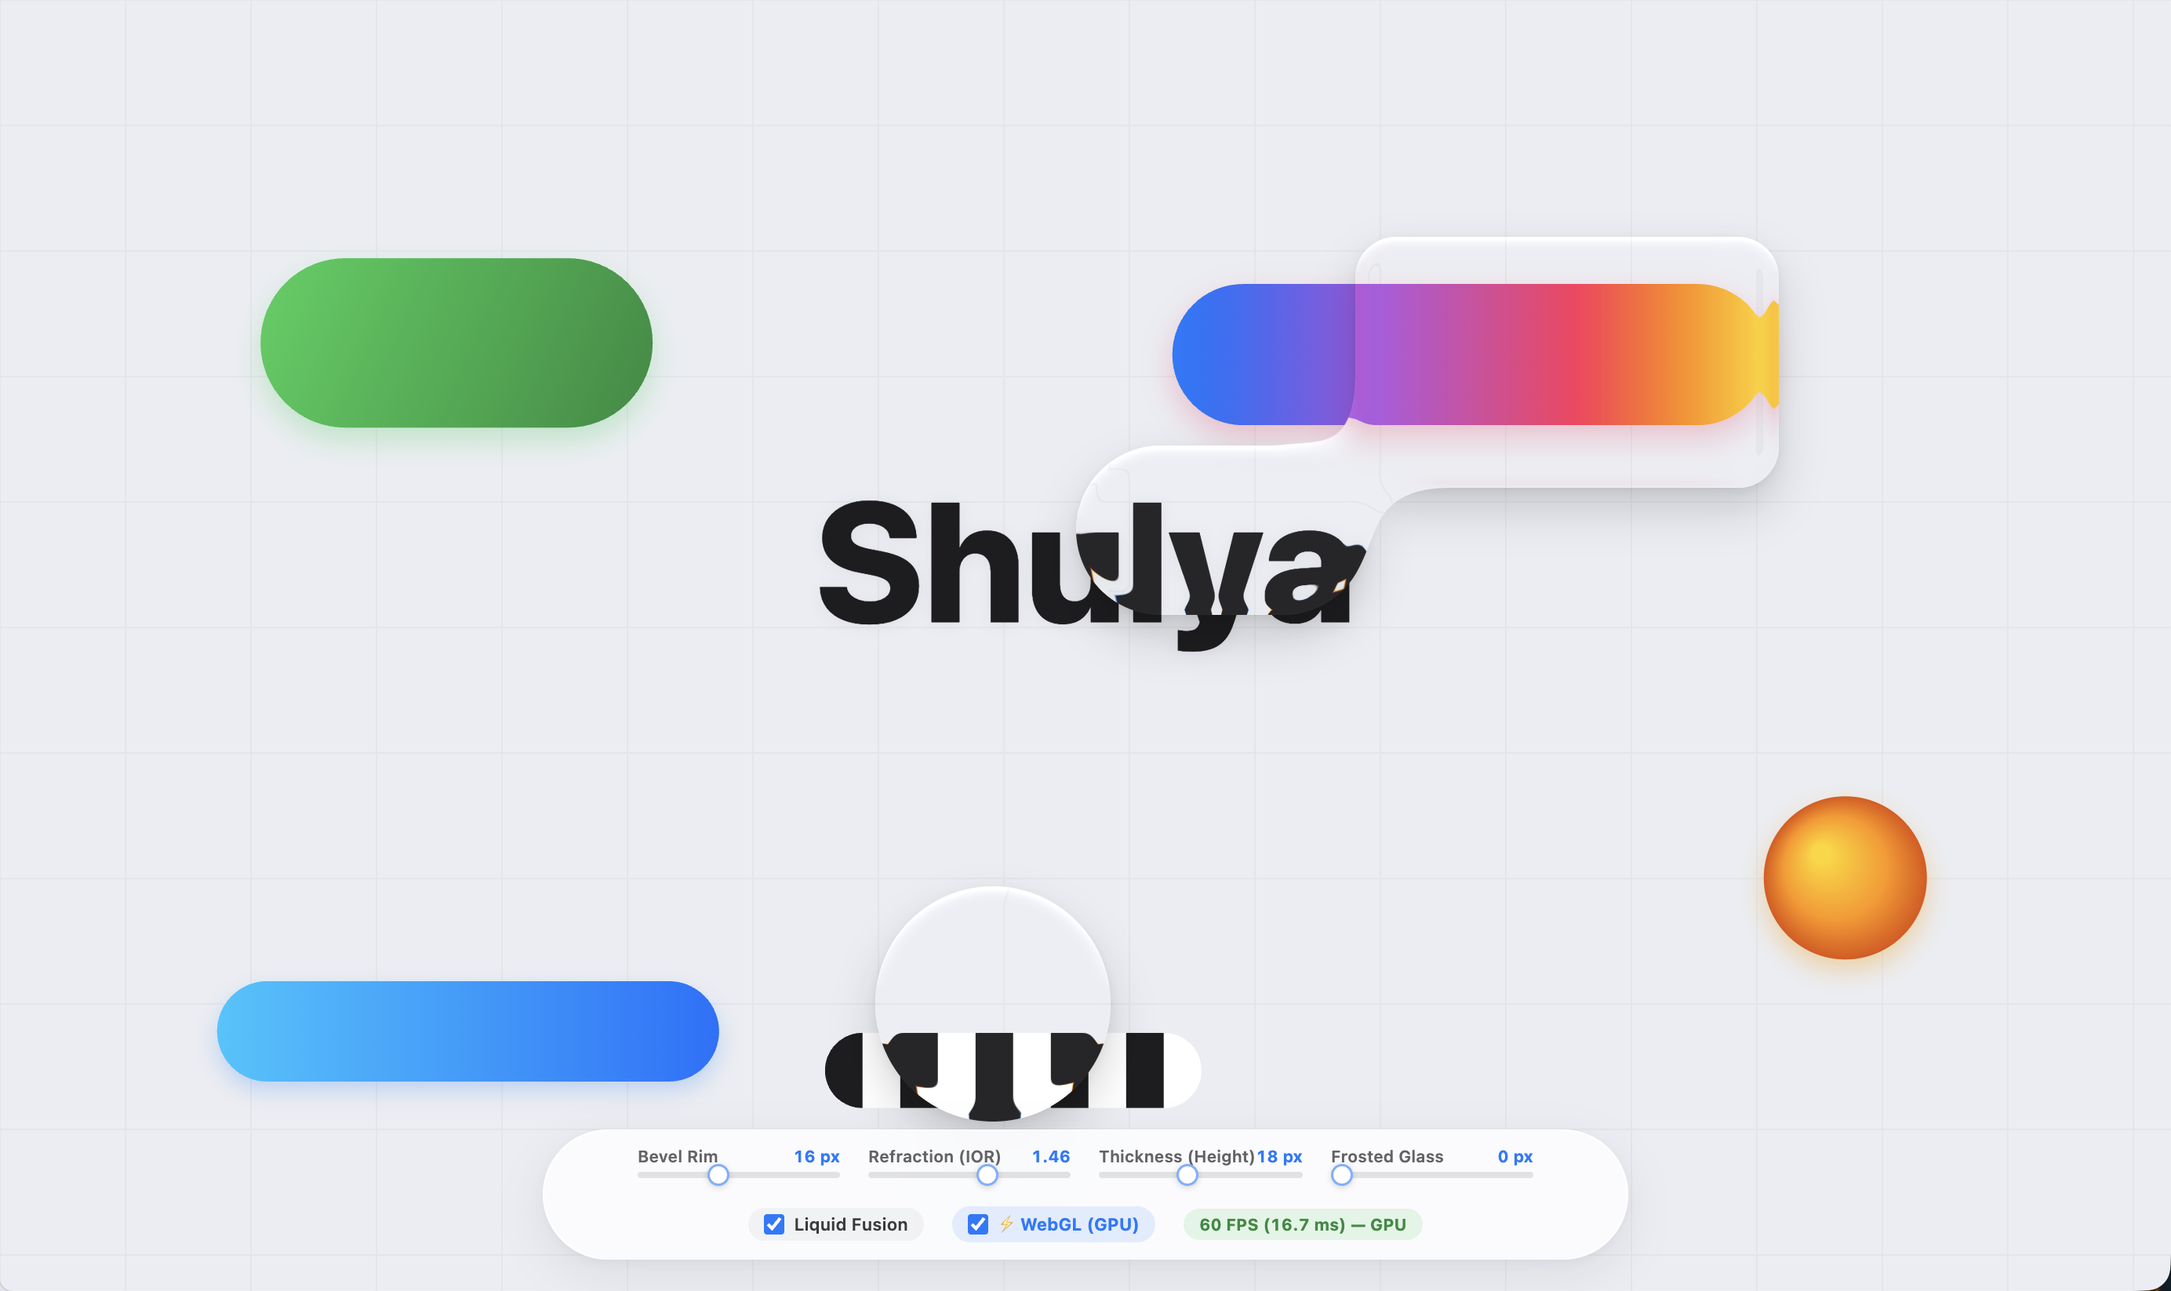
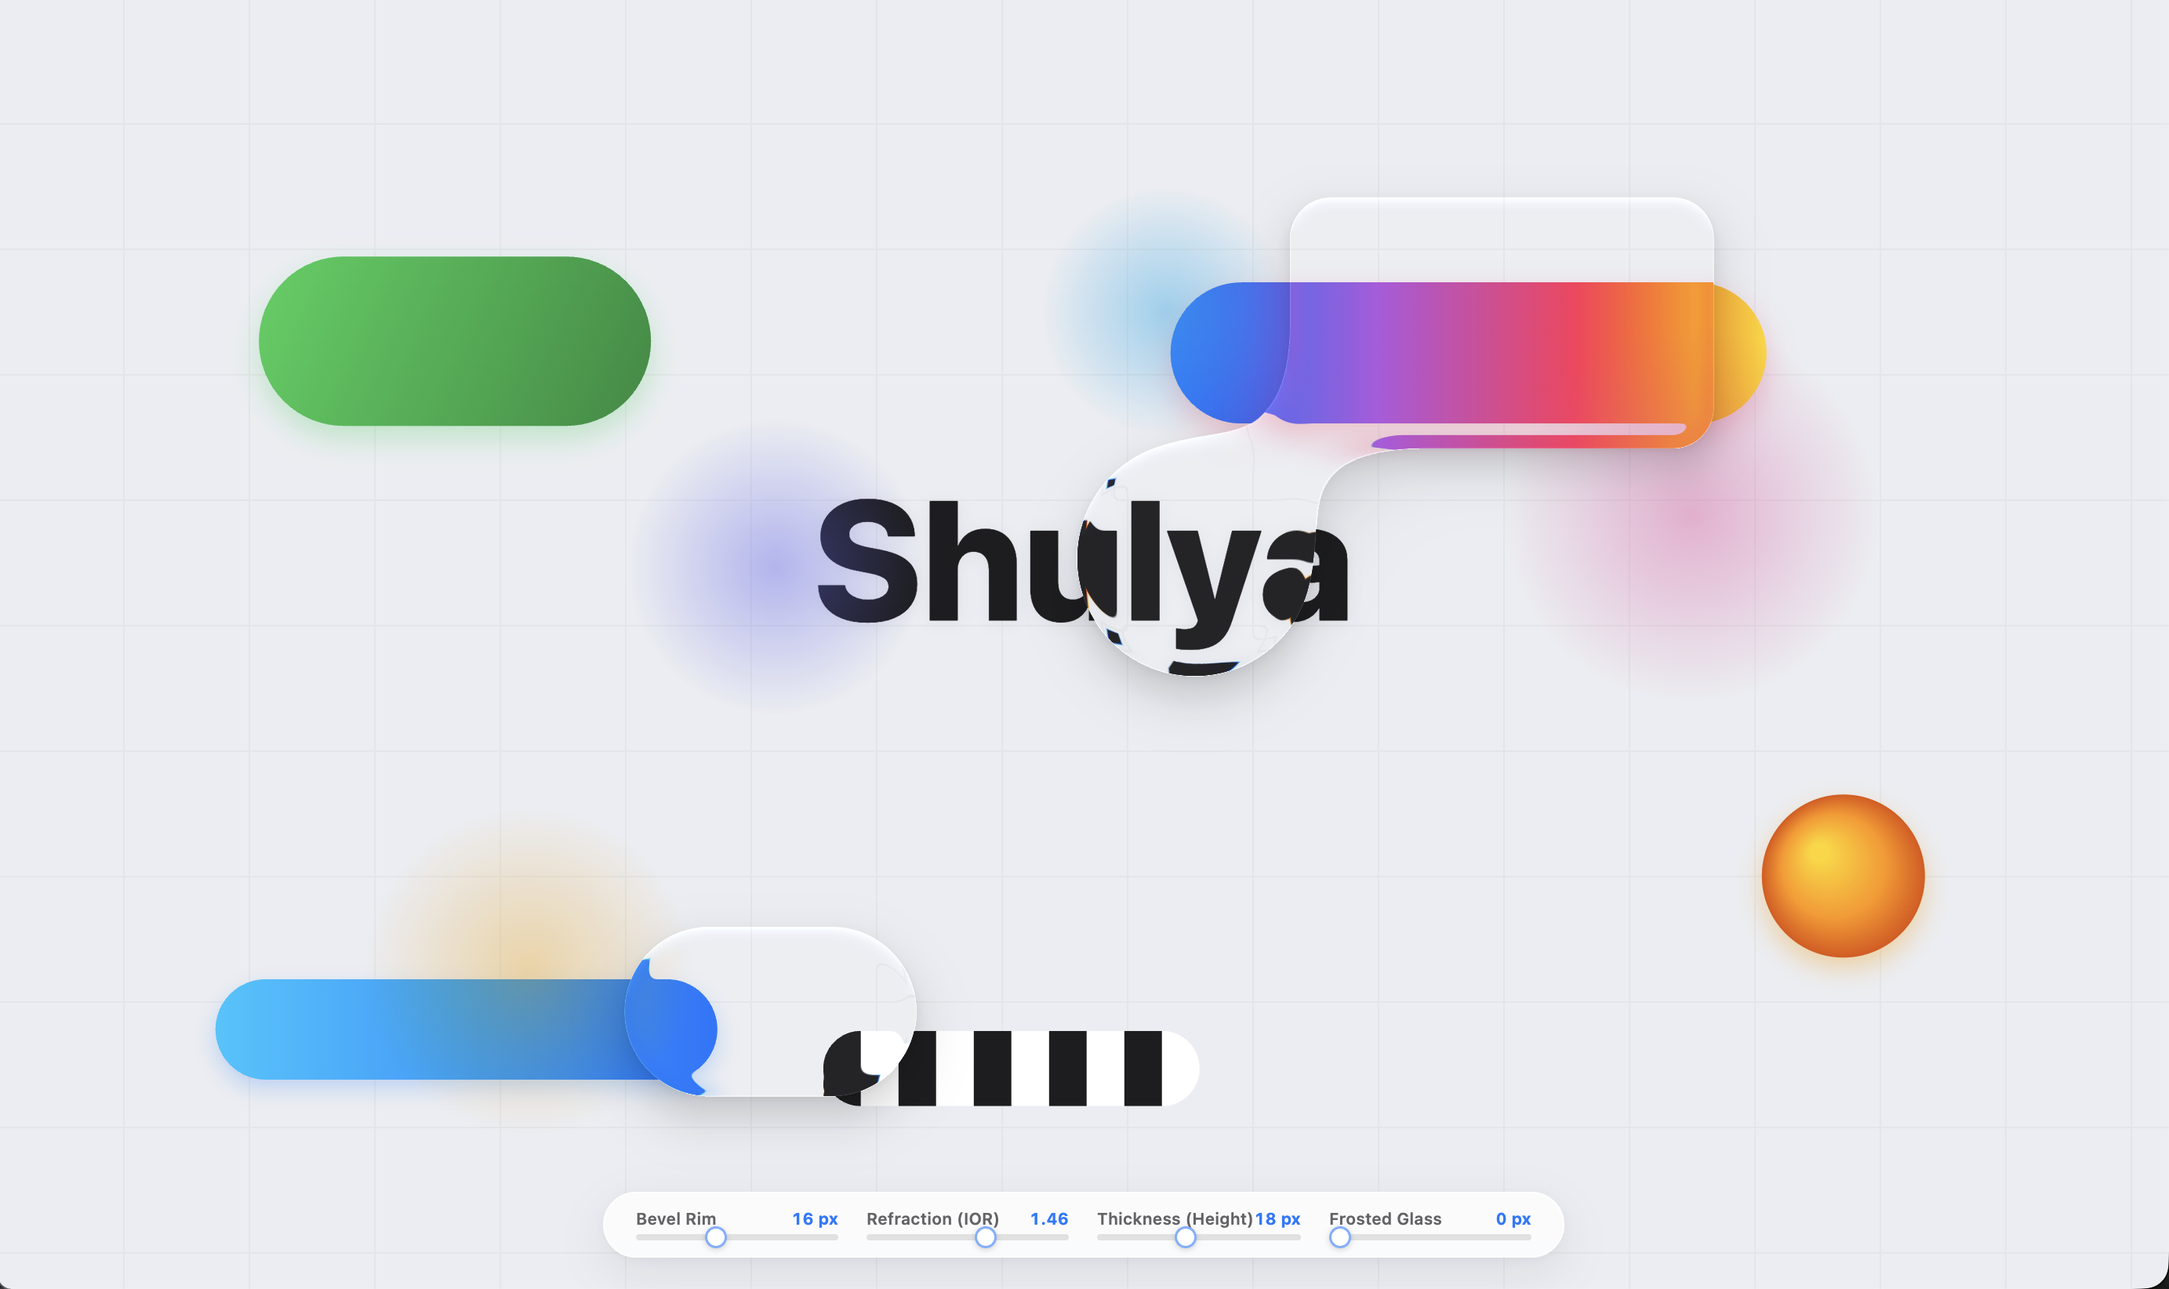
refactor: replace boolean fusion toggle with automatic z-index based merging

diff --git a/src/core/stage.js b/src/core/stage.js
@@ -54,10 +54,10 @@ function ensureStageBuffers(customDpr = 0) {
   if (typeof document === 'undefined') return false;
   const dpr = getDevicePixelRatio(customDpr);
   const docEl = document.documentElement;
-  const vw = Math.max(1, window.innerWidth, docEl ? docEl.clientWidth : 0);
-  const vh = Math.max(1, window.innerHeight, docEl ? docEl.clientHeight : 0);
-  const bufW = Math.round(vw * dpr);
-  const bufH = Math.round(vh * dpr);
+  const vw = window.innerWidth || (docEl ? docEl.clientWidth : 1024);
+  const vh = window.innerHeight || (docEl ? docEl.clientHeight : 768);
+  const bufW = Math.max(1, Math.round(vw * dpr));
+  const bufH = Math.max(1, Math.round(vh * dpr));
 
   if (!stageCanvas) {
     stageCanvas = document.createElement('canvas');
@@ -131,8 +131,12 @@ function getTierSizeWithHysteresis(currentTier, maxDim) {
 function ensureWebGLRenderer(bufW = 1024, bufH = 1024) {
   if (typeof document === 'undefined') return false;
 
-  const w = bufW || Math.max(1, Math.round((window.innerWidth || 1024) * (window.devicePixelRatio || 1)));
-  const h = bufH || Math.max(1, Math.round((window.innerHeight || 1024) * (window.devicePixelRatio || 1)));
+  const docEl = document.documentElement;
+  const vw = window.innerWidth || (docEl ? docEl.clientWidth : 1024);
+  const vh = window.innerHeight || (docEl ? docEl.clientHeight : 768);
+  const sysDpr = window.devicePixelRatio || 1;
+  const w = bufW || Math.max(1, Math.round(vw * sysDpr));
+  const h = bufH || Math.max(1, Math.round(vh * sysDpr));
 
   if (!webglCanvas) {
     const canvas = document.createElement('canvas');
@@ -142,8 +146,8 @@ function ensureWebGLRenderer(bufW = 1024, bufH = 1024) {
       position: fixed;
       left: 0;
       top: 0;
-      width: 100vw;
-      height: 100vh;
+      width: ${vw}px;
+      height: ${vh}px;
       pointer-events: none;
       display: block;
       visibility: hidden;
@@ -158,6 +162,14 @@ function ensureWebGLRenderer(bufW = 1024, bufH = 1024) {
   if (webglCanvas.width !== w || webglCanvas.height !== h) {
     webglCanvas.width = w;
     webglCanvas.height = h;
+  }
+  const cssW = `${vw}px`;
+  const cssH = `${vh}px`;
+  if (webglCanvas.style.width !== cssW) {
+    webglCanvas.style.width = cssW;
+  }
+  if (webglCanvas.style.height !== cssH) {
+    webglCanvas.style.height = cssH;
   }
 
   if (!webglRenderer) {
@@ -258,8 +270,8 @@ function renderAllActiveLenses() {
     }
     const r = ctrl.getRect ? ctrl.getRect() : ctrl.element.getBoundingClientRect();
     if (!r || r.width <= 4 || r.height <= 4) continue;
-    // Keep off-screen fusion anchors in active list when fusion is enabled
-    const margin = ctrl.options.fusion ? DEFAULT_FUSION_DISTANCE : 0;
+    // Keep off-screen fusion anchors in active list when fusion distance is configured
+    const margin = (ctrl.options.fusionDistance ?? DEFAULT_FUSION_DISTANCE) > 0 ? DEFAULT_FUSION_DISTANCE : 0;
     if (
       r.bottom < -margin ||
       r.top > vh + margin ||
@@ -306,16 +318,17 @@ function renderAllActiveLenses() {
   }
 
   for (let i = 0; i < n; i++) {
-    if (!visible[i].ctrl.options.fusion) continue;
     const zI = visible[i].ctrl._cachedZIndex || 20;
-    const threshI = visible[i].ctrl.options.fusionDistance || DEFAULT_FUSION_DISTANCE;
+    const threshI = visible[i].ctrl.options.fusionDistance ?? DEFAULT_FUSION_DISTANCE;
+    if (threshI <= 0) continue;
     for (let j = i + 1; j < n; j++) {
-      if (!visible[j].ctrl.options.fusion) continue;
       const zJ = visible[j].ctrl._cachedZIndex || 20;
       // STRICT: only elements with the exact same z-index can coalesce/fuse!
       if (zI !== zJ) continue;
 
-      const baseThresh = Math.max(threshI, visible[j].ctrl.options.fusionDistance || DEFAULT_FUSION_DISTANCE);
+      const threshJ = visible[j].ctrl.options.fusionDistance ?? DEFAULT_FUSION_DISTANCE;
+      if (threshJ <= 0) continue;
+      const baseThresh = Math.max(threshI, threshJ);
       const idA = visible[i].ctrl._id || (i + 1);
       const idB = visible[j].ctrl._id || (j + 1);
       const pairKey = idA < idB ? `${idA}:${idB}` : `${idB}:${idA}`;
@@ -471,7 +484,6 @@ function renderAllActiveLenses() {
       borderRadius: ctrl._getRadius(),
       shape: ctrl._getShape(),
       tint: ctrl._tint,
-      fusion: ctrl.options.fusion,
       fused: group.length > 1
     }));
 

diff --git a/example/src/App.jsx b/example/src/App.jsx
@@ -256,6 +256,11 @@ function drawStageBackground(canvas, dpr = computeOptimalDpr(), time = 0) {
     canvas.height = bufH;
   }
 
+  const cssW = `${w}px`;
+  const cssH = `${h}px`;
+  if (canvas.style.width !== cssW) canvas.style.width = cssW;
+  if (canvas.style.height !== cssH) canvas.style.height = cssH;
+
   const ctx = canvas.getContext('2d');
   if (!ctx) return;
 
@@ -380,7 +385,6 @@ export default function App() {
   const [ior, setIor] = useState(OPTICAL_DEFAULTS.ior);
   const [height, setHeight] = useState(OPTICAL_DEFAULTS.height);
   const [frosted, setFrosted] = useState(0);
-  const [fusion, setFusion] = useState(OPTICAL_DEFAULTS.fusion);
 
   // 1. «Золотое сечение» на старте (computeOptimalDpr)
   const initialDpr = computeOptimalDpr();
@@ -447,18 +451,26 @@ export default function App() {
     }
   }, [dpr]);
 
-  // Synchronous redraw when optical params or fusion change
+  // Synchronous redraw when optical params change
   useLayoutEffect(() => {
     redrawStageNow();
-  }, [rim, ior, height, frosted, fusion]);
+  }, [rim, ior, height, frosted]);
 
   // Top-left dragging: direct zero-overhead DOM tracking without React re-render hitch
   const handlePointerDown = useCallback((id, e) => {
     const target = shapesRef.current.find((s) => s.id === id);
     if (!target) return;
 
+    if (e.target && e.target.setPointerCapture && e.pointerId !== undefined) {
+      try {
+        e.target.setPointerCapture(e.pointerId);
+      } catch {}
+    }
+
     dragState.current = {
       id,
+      pointerId: e.pointerId,
+      targetEl: e.target,
       offX: e.clientX - target.x,
       offY: e.clientY - target.y,
       currentX: target.x,
@@ -495,7 +507,14 @@ export default function App() {
 
     const handlePointerUp = () => {
       if (!dragState.current) return;
-      const { id, currentX, currentY } = dragState.current;
+      const { id, currentX, currentY, pointerId, targetEl } = dragState.current;
+      if (targetEl && targetEl.releasePointerCapture && pointerId !== undefined) {
+        try {
+          if (targetEl.hasPointerCapture && targetEl.hasPointerCapture(pointerId)) {
+            targetEl.releasePointerCapture(pointerId);
+          }
+        } catch {}
+      }
       dragState.current = null;
       const target = shapesRef.current.find((s) => s.id === id);
       if (target) {
@@ -534,7 +553,6 @@ export default function App() {
           ior={ior}
           height={height}
           frosted={frosted}
-          fusion={fusion}
           dpr={dpr}
           className="glass-body"
           data-lg-tint="rgba(255, 255, 255, 0.18)"
@@ -611,15 +629,6 @@ export default function App() {
             onChange={(e) => setFrosted(Number(e.target.value))}
           />
         </div>
-
-        <label className="ctrl-toggle">
-          <input
-            type="checkbox"
-            checked={fusion}
-            onChange={(e) => setFusion(e.target.checked)}
-          />
-          <span>Liquid Fusion</span>
-        </label>
       </div>
     </>
   );

diff --git a/src/core/dom-cache.js b/src/core/dom-cache.js
@@ -294,16 +294,32 @@ export function paintDomSurfaces(ctx, dpr, vw, bw, bh, minY, maxY, originY, clus
           domCacheCtx.letterSpacing = parentStyle.letterSpacing;
         }
 
-        const parentRect = parent.getBoundingClientRect();
+        const totalChars = isGradient
+          ? lines.reduce((acc, l) => acc + (l.text ? l.text.length : 0), 0)
+          : 0;
+        let cumulativeChars = 0;
 
         for (let lIdx = 0; lIdx < lines.length; lIdx++) {
           const line = lines[lIdx];
           const lr = line.rect;
-          if (lr.bottom < minY || lr.top > maxScanY) continue;
+          const lineLen = line.text ? line.text.length : 0;
+          if (lr.bottom < minY || lr.top > maxScanY) {
+            cumulativeChars += lineLen;
+            continue;
+          }
 
           if (isGradient) {
-            const gradLeft = lr.left;
-            const gradRight = lr.right > lr.left ? lr.right : (lr.left + 100);
+            // Physically accurate multi-line gradient projection:
+            // Slices continuous CSS gradient across wrapped lines so words at the end
+            // of a line do NOT prematurely turn purple when the gradient spans across to the next line!
+            const tStart = totalChars > 0 ? cumulativeChars / totalChars : 0;
+            const tEnd = totalChars > 0 ? (cumulativeChars + lineLen) / totalChars : 1;
+            const lineSpan = Math.max(0.001, tEnd - tStart);
+            const lineWidth = Math.max(10, lr.right - lr.left);
+            const fullVirtualWidth = lineWidth / lineSpan;
+            const gradLeft = lr.left - tStart * fullVirtualWidth;
+            const gradRight = gradLeft + fullVirtualWidth;
+
             const grad = domCacheCtx.createLinearGradient(gradLeft, lr.top, gradRight, lr.top);
             grad.addColorStop(0, '#fb923c');
             grad.addColorStop(0.5, '#ec4899');
@@ -318,6 +334,7 @@ export function paintDomSurfaces(ctx, dpr, vw, bw, bh, minY, maxY, originY, clus
           }
 
           domCacheCtx.fillText(line.text, lr.left, lr.top);
+          cumulativeChars += lineLen;
         }
 
         domCacheCtx.restore();

diff --git a/src/canvas2d/cluster.js b/src/canvas2d/cluster.js
@@ -45,7 +45,7 @@ export function clearClusterOverlay(ctx) {
  */
 export function renderFusedCluster(ctx, sourceCtx, elements, rawOptions = {}, dpr = 1) {
   const options = normalizeOptions(rawOptions);
-  const fusionSpan = options.fusion ? (rawOptions.fusionDistance ?? DEFAULT_FUSION_DISTANCE) * dpr : 0;
+  const fusionSpan = (rawOptions.fusionDistance ?? DEFAULT_FUSION_DISTANCE) * dpr;
   const rimPx = Math.max(1, options.rim * dpr);
   const ior = options.ior;
   const heightPx = options.height * dpr;
@@ -117,7 +117,6 @@ export function renderFusedCluster(ctx, sourceCtx, elements, rawOptions = {}, dp
       halfH,
       r,
       isCircle,
-      fusion: b.fusion !== undefined ? Boolean(b.fusion) : options.fusion,
       tintR: b.tint ? b.tint[0] : 15,
       tintG: b.tint ? b.tint[1] : 23,
       tintB: b.tint ? b.tint[2] : 42,
@@ -164,7 +163,7 @@ export function renderFusedCluster(ctx, sourceCtx, elements, rawOptions = {}, dp
 
         if (i === 0) {
           dCluster = dShape;
-        } else if (b.fusion && span > 0.001) {
+        } else if (span > 0.001) {
           const diff = dCluster > dShape ? dCluster - dShape : dShape - dCluster;
           if (diff < span) {
             const h = span - diff;

diff --git a/src/core/controller.js b/src/core/controller.js
@@ -228,10 +228,13 @@ export class LiquidGlassController {
   }
 
   isTouchingAny(threshold = 40) {
-    if (!this.options.fusion || !this.element) return false;
+    if (!this.element) return false;
+    const myZ = this._cachedZIndex || 20;
     const r1 = this.element.getBoundingClientRect();
     for (const other of controllerRegistry) {
-      if (other === this || !other.element || !other.options.fusion) continue;
+      if (other === this || !other.element) continue;
+      const otherZ = other._cachedZIndex || 20;
+      if (myZ !== otherZ) continue;
       const r2 = other.element.getBoundingClientRect();
       if (areRectsTouching(r1, r2, threshold)) return true;
     }
@@ -264,7 +267,7 @@ export class LiquidGlassController {
       changed = true;
     }
 
-    for (const key of ['rim', 'ior', 'height', 'frosted', 'fusion', 'fusionDistance', 'dpr']) {
+    for (const key of ['rim', 'ior', 'height', 'frosted', 'fusionDistance', 'dpr']) {
       if (merged[key] !== this.options[key]) {
         this.options[key] = merged[key];
         changed = true;

diff --git a/src/react.js b/src/react.js
@@ -29,7 +29,6 @@ export function useLiquidGlass(options = {}) {
         ior: options.ior,
         height: options.height,
         frosted: options.frosted,
-        fusion: options.fusion,
         fusionDistance: options.fusionDistance,
         zIndex: options.zIndex,
         enabled: options.enabled,
@@ -41,7 +40,6 @@ export function useLiquidGlass(options = {}) {
     options.ior,
     options.height,
     options.frosted,
-    options.fusion,
     options.fusionDistance,
     options.zIndex,
     options.enabled,
@@ -60,7 +58,6 @@ export const LiquidGlass = forwardRef(function LiquidGlass(
     ior = OPTICAL_DEFAULTS.ior,
     height = OPTICAL_DEFAULTS.height,
     frosted = OPTICAL_DEFAULTS.frosted,
-    fusion = OPTICAL_DEFAULTS.fusion,
     fusionDistance,
     zIndex,
     enabled = true,
@@ -78,7 +75,6 @@ export const LiquidGlass = forwardRef(function LiquidGlass(
     ior,
     height,
     frosted,
-    fusion,
     fusionDistance,
     zIndex,
     enabled,

diff --git a/types/index.d.ts b/types/index.d.ts
@@ -20,13 +20,8 @@ export interface LiquidGlassOptions {
   frosted?: number;
 
   /**
-   * Enable liquid coalescence with neighboring glass elements (default: true).
-   * Set to false for static/isolated blocks to bypass proximity checks and maximize performance.
-   */
-  fusion?: boolean;
-
-  /**
-   * Proximity distance threshold in pixels for liquid fusion bridging (default: 40).
+   * Proximity distance threshold in pixels for liquid fusion bridging (default: 88).
+   * Elements with the same z-index coalesce automatically when within this distance.
    */
   fusionDistance?: number;
 

diff --git a/src/core/options.js b/src/core/options.js
@@ -13,7 +13,6 @@ export const OPTICAL_DEFAULTS = Object.freeze({
   ior: 1.46,
   height: 18,
   frosted: 0,
-  fusion: true,
   fusionDistance: 88,
   dpr: 0
 });
@@ -62,7 +61,6 @@ export function normalizeOptions(options = {}) {
       OPTICAL_LIMITS.frosted.min,
       OPTICAL_LIMITS.frosted.max
     ),
-    fusion: options.fusion !== undefined ? Boolean(options.fusion) : OPTICAL_DEFAULTS.fusion,
     fusionDistance:
       typeof options.fusionDistance === 'number' && !Number.isNaN(options.fusionDistance)
         ? Math.max(10, Math.min(200, options.fusionDistance))

diff --git a/src/webgl/renderer.js b/src/webgl/renderer.js
@@ -460,7 +460,7 @@ export class WebGLGlassRenderer {
         typeof clusterOpts.fusionDistance === 'number'
           ? clusterOpts.fusionDistance
           : DEFAULT_FUSION_DISTANCE;
-      const fusionSpan = clusterOpts.fusion ? fusionDistance * dpr : 0;
+      const fusionSpan = fusionDistance * dpr;
       const clusterFrosted = clusterOpts.frosted || 0;
 
       gl.uniform1f(this.uRim, rimPx);

diff --git a/example/index.html b/example/index.html
@@ -3,7 +3,7 @@
 
 <head>
   <meta charset="UTF-8" />
-  <meta name="viewport" content="width=device-width, initial-scale=1.0, maximum-scale=1.0, user-scalable=no" />
+  <meta name="viewport" content="width=device-width, initial-scale=1.0, maximum-scale=1.0, user-scalable=no, viewport-fit=cover" />
   <title>Liquid Glass UI — React Interactive Playground</title>
 </head>
 

diff --git a/example/src/styles.css b/example/src/styles.css
@@ -29,8 +29,6 @@ body {
   position: fixed;
   top: 0;
   left: 0;
-  width: 100%;
-  height: 100%;
   display: block;
   z-index: 1;
   pointer-events: none;

diff --git a/README.md b/README.md
@@ -113,9 +113,9 @@ Every component, hook, directive, and controller accepts the following configura
 | **`rim`** | `number` | **`16`** | `4` | `48` | Width of the curved perimeter bevel and specular highlight (in `px`). |
 | **`ior`** | `number` | **`1.46`** | `1.05` | `2.20` | Optical Index of Refraction controlling background bending intensity. |
 | **`height`** | `number` | **`18`** | `2` | `50` | Apparent elevation and optical thickness of the glass slab (in `px`). |
-| **`frosted`** | `number` | **`0`** | `0` | `32` | Gaussian surface diffusion radius in `px` (`0` = crystal clear, `>0` = frosted satin glass). |
-| **`fusion`** | `boolean` | **`true`** | — | — | Enables liquid surface coalescence with neighboring glass blocks. Set to `false` for isolated static blocks. |
-| **`fusionDistance`** | `number` | **`56`** | `10` | `120` | Distance threshold (in `px`) for liquid bridge formation between adjacent elements. |
+| **`frosted`** | `number` | **`0`** | `0` | `32` | Hardware Gaussian surface diffusion radius in `px` (`0` = crystal clear, `>0` = frosted satin glass). Always prefer over CSS `backdrop-filter`. |
+| **`fusionDistance`** | `number` | **`88`** | `10` | `200` | Distance threshold (in `px`) for liquid bridge formation between adjacent elements sharing the same `z-index`. |
+| **`zIndex`** | `number` | `auto` | — | — | Layer index controlling stacking order and liquid merging. Elements with the **exact same `z-index` automatically fuse** like physical liquid drops; elements with different `z-index` slide independently as separate optical layers. |
 | **`dpr`** | `number` | **`0`** | `0.5` | `3.0` | Custom device pixel ratio override (`0` = automatic adaptive DPR). |
 | **`borderRadius`** | `number \| null` | `null` | `0` | `999` | Optional corner radius override in `px` (inherits CSS `border-radius` by default). |
 
